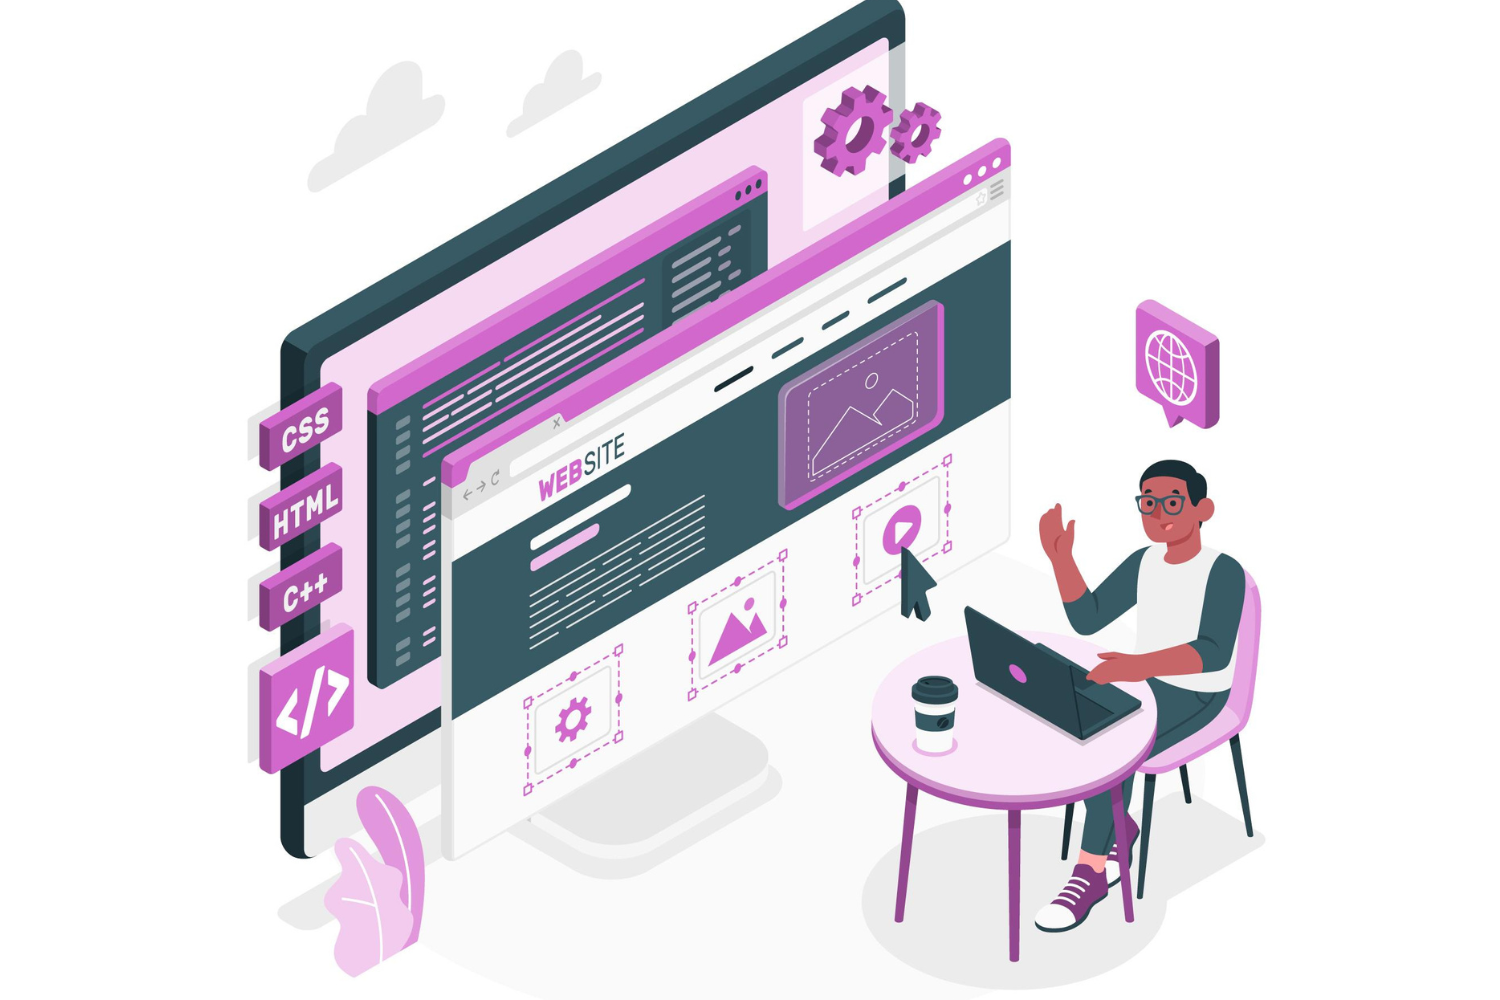
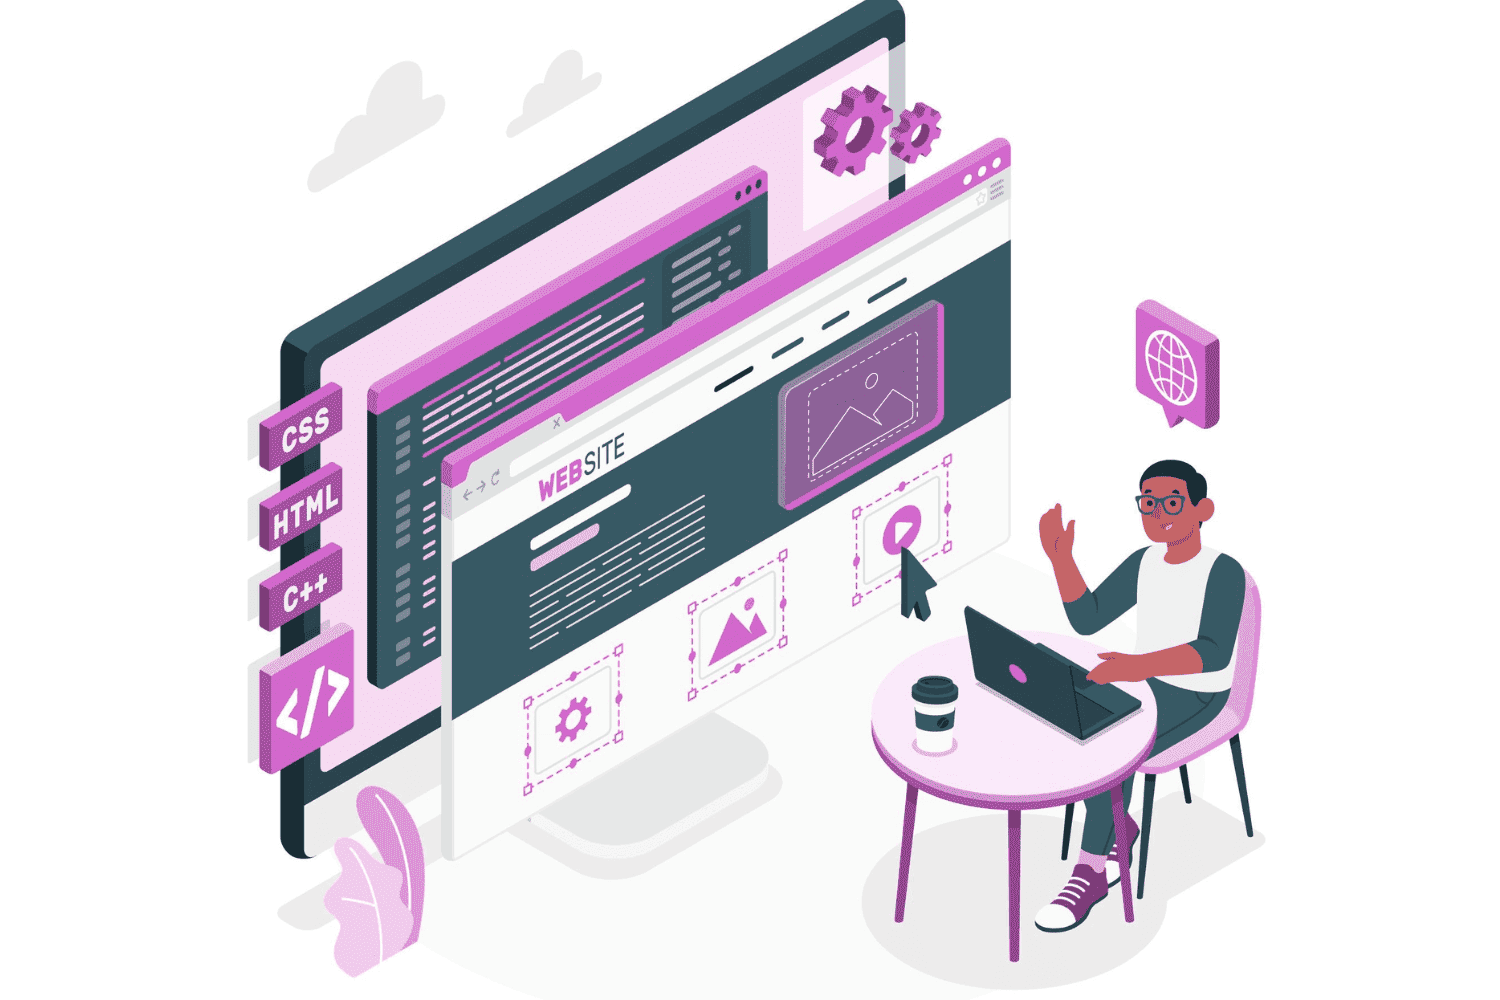
Compress the Services Image size

diff --git a/src/Components/HomeComponents/HeroSection.jsx b/src/Components/HomeComponents/HeroSection.jsx
@@ -167,7 +167,7 @@ function HeroSection() {
       
       <div className='relative'>
         <motion.div 
-          className='absolute hidden xl:block lg:bottom-96 bottom-16  z-10 left-1 lg:left-96   bg-white  xl:w-[7%] w-[30%] p-1 border rounded-xl lg:rounded-xl overflow-hidden border-gray-100'
+          className='absolute hidden lg:hidden xl:block lg:bottom-96 bottom-16  z-10 left-1 lg:left-96   bg-white  xl:w-[7%] w-[30%] p-1 border rounded-xl lg:rounded-xl overflow-hidden border-gray-100'
           initial="hidden"
           animate="visible"
           variants={img2Animation}
@@ -178,14 +178,14 @@ function HeroSection() {
         <motion.img 
           className='absolute  shadow-lg rounded-lg xl:bottom-1 -bottom-25  left-1/2 lg:transform -translate-x-1/2 xl:w-[50%] lg:w-[60%] w-[90%]'
           src={img1} 
-          alt=""
-          initial="hidden"
+          alt="image 1"
+          initial=""
           animate="visible"
           variants={img1Animation}
         />
         
         <motion.div 
-          className='absolute hidden lg:block xl:hidden z-10 left-1/2 transform -translate-x-1/2 bg-white lg:w-[15%] w-[40%]  lg:-bottom-28 p-1 border rounded-3xl overflow-hidden border-gray-100 shadow-md'
+          className='absolute hidden lg:block z-10 left-1/2 transform -translate-x-1/2 bg-white lg:w-[15%] w-[40%]  lg:-bottom-28 p-1 border rounded-3xl overflow-hidden border-gray-100 shadow-md'
           initial="hidden"
           animate="visible"
           variants={img3Animation}

diff --git a/src/pages/ContactUs.jsx b/src/pages/ContactUs.jsx
@@ -238,7 +238,7 @@ function ContactUs({padding = "px-4"}) {
 
 {location.pathname === "/contact-us" && (
         <>
-        <h2 className='text-center text-black lg:text-4xl text-3xl font-bold mt-6 font-satochi'>Our Response Time</h2>
+        <h2 className='text-center block lg:hidden text-black lg:text-4xl text-3xl font-bold mt-6 font-satochi'>Our Response Time</h2>
           <ResponseTimeSection />
           <ContactFaqs />
         </>
